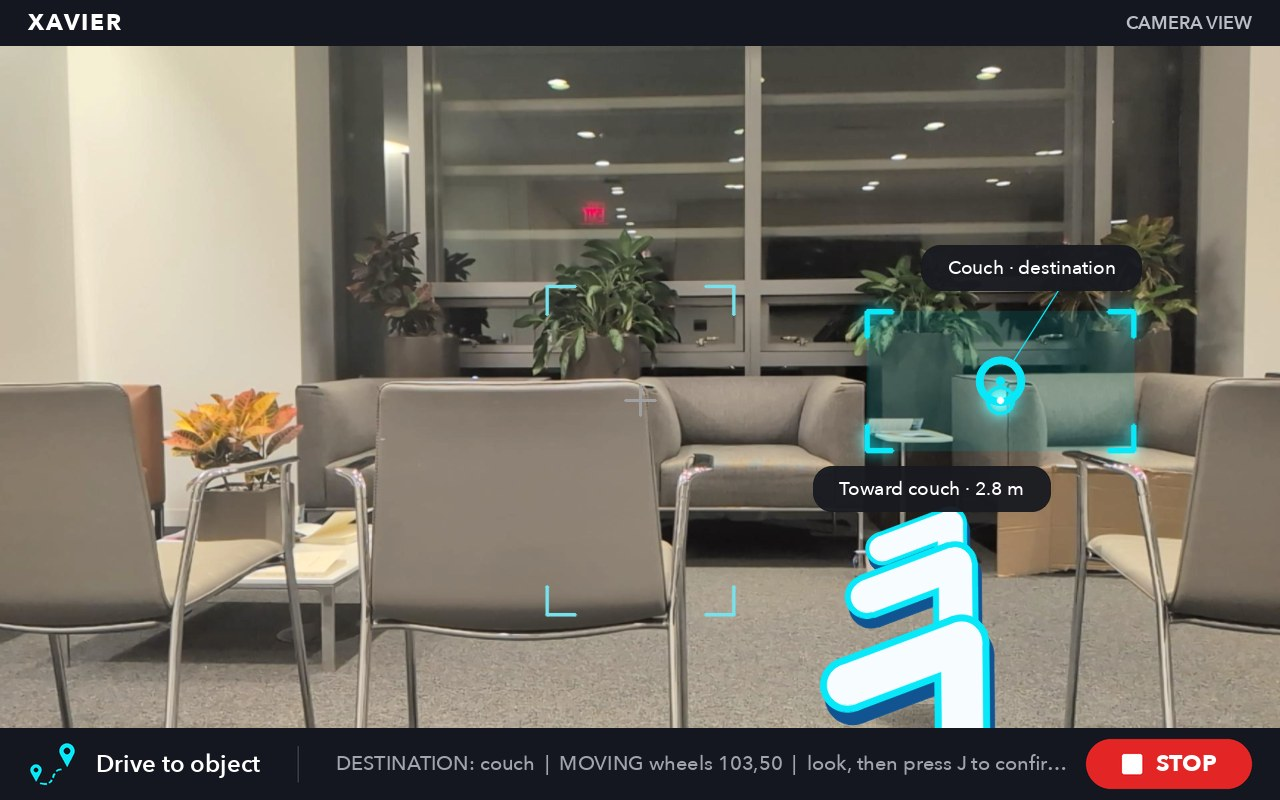
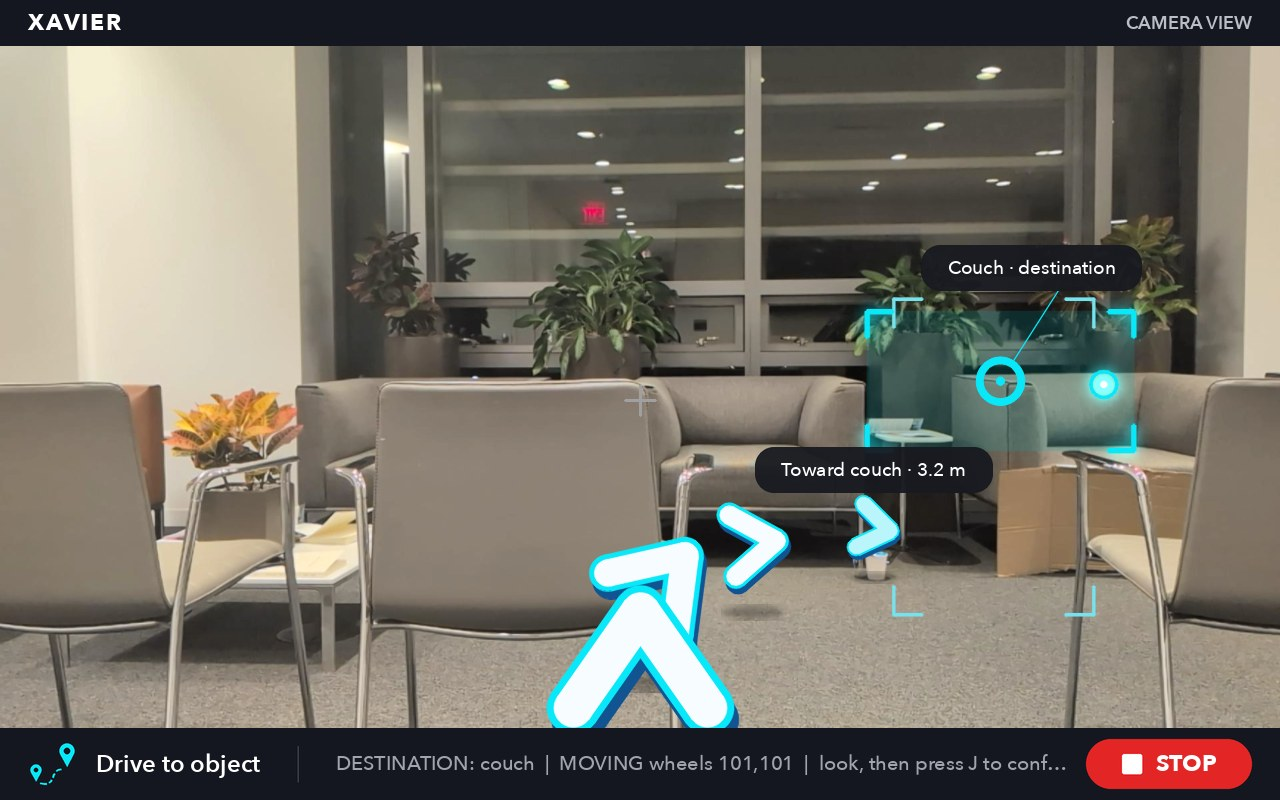
feat(vision): simple metric A* route to the confirmed object; overlapping objects choosable; drive simulation script
Detected objects become blocks on a 10 cm floor grid grown by 0.4 m; control/astar.py finds the shortest
way round to a stop point before the target. Simulated end to end into a fake port: confirm -> hold ->
FORWARD + RIGHT, and a detour round a chair standing on the line, with chevrons drawn.

diff --git a/vision/object_select.py b/vision/object_select.py
@@ -27,9 +27,10 @@ from dataclasses import dataclass, replace
 
 import numpy as np
 
+from control.astar import astar_path
 from control.follow import follow_step
 from control.goto import NavState, nav_step
-from control.navigation import to_wheels
+from control.navigation import goal_from_target, to_wheels
 from control.state_machine import ControlInputs, ControllerState, step
 from shared.latest import drain_newest
 from shared.protocol import DWELL_S, STALE_INTENT_S, Intent, State, StopRequest, StopSource, Target
@@ -76,6 +77,10 @@ MIN_LOOK_S = 0.3  # gaze must rest on a box this long before a clench / key conf
 DETECT_PERIOD_S = 0.15
 SESSION_LOG_DIR = "data/raw/sessions"  # one log file per run (data/raw is gitignored)
 JAW_METER_BLOCKS = 10  # status-bar clench meter: all blocks lit = at the rider's threshold
+ROUTE_RADIUS_M = 0.4  # planner keeps this much space around every obstacle: chair half-width 0.3 m + 0.1 m margin
+OBSTACLE_SAMPLE_M = 0.2  # obstacle points this far apart across an object (less than 2 x ROUTE_RADIUS_M: no gaps)
+OBSTACLE_DEPTH_M = 0.4  # an object is treated as this deep (a second row of points behind its front)
+STOP_BEFORE_TARGET_M = 0.4  # the route ends this far before the target's estimated position
 STOP_KEY, REARM_KEY = 32, ord("r")  # SPACE = operator emergency stop, R = re-arm: the same keys as app.py
 # control/goto.py's nav_step is gaining an optional `frame_h` keyword (a target whose box is cut off by the bottom
 # of the frame counts as arrived). Checked once here, so the drive step works with either version of the planner.
@@ -181,7 +186,9 @@ def hit_boxes(targets: list[Track], frame_w: int, frame_h: int,
     """Each target's gaze area in 0-1 screen coordinates. Small objects are enlarged around their centre to at
     least min_size (webcam gaze is only accurate to a few degrees), shifted to stay on screen."""
     boxes = {}
-    for t in targets:
+    # Smallest first: the gaze test takes the first box it is inside, so an object in front of a bigger one
+    # (a chair before a couch) is the one chosen where they overlap; the couch is chosen beside the chair.
+    for t in sorted(targets, key=lambda t: (t.bbox[2] - t.bbox[0]) * (t.bbox[3] - t.bbox[1])):
         x1, y1, x2, y2 = t.bbox[0] / frame_w, t.bbox[1] / frame_h, t.bbox[2] / frame_w, t.bbox[3] / frame_h
         w, h = max(x2 - x1, min_size), max(y2 - y1, min_size)
         cx = min(max((x1 + x2) / 2, w / 2), 1 - w / 2)
@@ -271,14 +278,50 @@ def draw(cv2, frame: np.ndarray, targets: list[Track], boxes: dict, sel: Selecti
                                          guides=guides, guide_label=label, clock=now))
 
 
+def obstacle_points(tracks: list[Track], exclude_id: int | None, frame_w: int, hfov: float) -> np.ndarray:
+    """Every detected object except the target -> floor points in metres (forward, left), the chair at (0, 0).
+
+    Points every OBSTACLE_SAMPLE_M across the object's width, at its estimated distance and OBSTACLE_DEPTH_M
+    behind it, so even a long couch is a solid wall to the planner (no gaps between sample points)."""
+    focal = focal_length_px(frame_w, hfov)
+    points = []
+    for t in tracks:
+        if t.id == exclude_id or t.distance_m is None:
+            continue
+        x1, _, x2, _ = t.bbox
+        width_m = (x2 - x1) / focal * t.distance_m
+        count = max(3, math.ceil(width_m / OBSTACLE_SAMPLE_M) + 1)
+        for x in np.linspace(x1, x2, count):
+            offset = (x - frame_w / 2) / (frame_w / 2)
+            for extra in (0.0, OBSTACLE_DEPTH_M):
+                points.append(goal_from_target(offset, t.distance_m + extra, hfov))
+    return np.array(points, dtype=float).reshape(-1, 2)
+
+
 def plan_for_drive(frame: np.ndarray, tracks: list[Track], target: Track, hfov: float, cam_h: float,
-                   cam_pitch: float) -> tuple[Route | None, np.ndarray | None]:
-    """The route to the target as seen in this camera frame: (in image pixels, for drawing; in metres in the
-    chair's frame, for the follower). Any failure gives (None, None), and no route means the chair stays put."""
+                   cam_pitch: float) -> tuple[None, np.ndarray | None]:
+    """The route to the target in metres in the chair's frame (for the follower and the chevrons), or None.
+
+    Simple and robust on purpose: every detected object becomes a block on a 10 cm floor grid, grown by the
+    chair's half-width plus a margin, and A* (control/astar.py) finds the shortest way around them to a stop
+    point in front of the target. The same idea as the stereo-camera path planner, with our single camera's
+    distance estimates instead of stereo depth. Floor the camera cannot see is assumed open: the ESP32's
+    ultrasonic stop is the backstop for anything the detector misses. Any failure gives None (no movement).
+    cam_h / cam_pitch are unused here; kept so the caller's signature does not change."""
     try:
-        view = floor_view(frame.shape[1], frame.shape[0], hfov, cam_h, cam_pitch)
-        route, _ = plan(frame, tracks, target, None, view)
-        return (route, floor_metres(route.points, view)) if route is not None else (None, None)
+        if target.distance_m is None:
+            return None, None
+        frame_w = frame.shape[1]
+        centre = (target.bbox[0] + target.bbox[2]) / 2
+        goal = np.array(goal_from_target((centre - frame_w / 2) / (frame_w / 2), target.distance_m, hfov))
+        distance = float(np.hypot(*goal))
+        if distance <= STOP_BEFORE_TARGET_M:
+            return None, None  # already there
+        stop = goal * (distance - STOP_BEFORE_TARGET_M) / distance
+        path = astar_path(tuple(stop), obstacle_points(tracks, target.id, frame_w, hfov), ROUTE_RADIUS_M)
+        if path is None or len(path) < 2:
+            return None, None
+        return None, np.array(path[1:], dtype=float)  # path[0] is the chair itself
     except Exception:
         log.exception("route planning failed: no route, the chair stays stopped")
         return None, None

diff --git a/tools/sim_drive.py b/tools/sim_drive.py
@@ -1,0 +1,73 @@
+"""Simulate a full drive session: the real object_select.run() with the real state machine, route planner,
+follower and motor driver, writing into a fake serial port. Only the camera picture, the detections, the gaze
+and the key presses are scripted. Prints what was calculated and sent, and saves screenshots."""
+import logging, queue, sys, time, types
+import cv2, numpy as np
+sys.path.insert(0, ".")
+import vision.object_select as osel
+from vision.detect_track import Track
+from vision.gaze import GazeSample
+from motors.driver import MotorDriver
+from motors.mock_serial import MockSerial
+
+OUT = sys.argv[1]
+SCENE = sys.argv[2] if len(sys.argv) > 2 else "detour"
+W, H = 1920, 1080
+picture = cv2.resize(cv2.imread(f"{OUT}/hall.png"), (W, H))
+target = Track(4, "couch", 0.9, (1300, 420, 1700, 640), 3.2)   # destination, right of centre, 3.2 m
+obstacle = Track(7, "chair", 0.9, (820, 380, 1100, 900), 1.8)  # a chair in the way, 1.8 m
+in_way = Track(7, "chair", 0.9, (1340, 400, 1640, 900), 1.6)  # a chair right on the line to the couch
+tracks = {"detour": [target, obstacle], "blocked": [target, in_way]}.get(SCENE, [target])
+osel.detect = lambda *a, **k: list(tracks)
+
+class Camera:
+    def latest(self): return picture, time.monotonic()
+
+log_lines, shots, statuses = [], {}, []
+class Grab(logging.Handler):
+    def emit(self, r): log_lines.append(r.getMessage())
+logging.getLogger("vision.object_select").addHandler(Grab()); logging.getLogger("vision.object_select").setLevel(logging.INFO)
+
+gaze_point = (0.862, 0.48) if SCENE == "blocked" else ((target.bbox[0] + target.bbox[2]) / 2 / W, 0.5)  # blocked: the strip of couch beside the chair
+class Gaze:
+    flip = False
+    def get_nowait(self):
+        self.flip = not self.flip
+        if not self.flip: raise queue.Empty
+        return GazeSample(gaze_point, False, True, time.monotonic())
+
+t0 = time.monotonic()
+def wait_key(_ms):
+    time.sleep(0.01)
+    el = time.monotonic() - t0
+    if 1.0 < el < 1.05: return ord("j")      # the "clench" (key mode stands in for the headset)
+    return 255
+real_draw = osel.draw
+def draw_and_keep(*a, **k):
+    img = real_draw(*a, **k)
+    shots[round(time.monotonic() - t0, 1)] = img
+    statuses.append((round(time.monotonic() - t0, 2), a[7] if len(a) > 7 else k.get("status")))
+    global last_args
+    last_args = a
+    return img
+osel.draw = draw_and_keep
+fake_cv2 = types.SimpleNamespace(**{n: getattr(cv2, n) for n in dir(cv2) if not n.startswith("_")})
+fake_cv2.imshow, fake_cv2.waitKey = (lambda *a: None), wait_key
+
+port = MockSerial(); driver = MotorDriver(lambda: port); driver.start()
+try:
+    osel.run(fake_cv2, Camera(), None, None, Gaze(), 85.5, "cpu", 5.0, confirm_mode="key", driver=driver,
+             follow="route", cam_h=0.89, cam_pitch=0.0)
+finally:
+    driver.stop()
+lines = port.lines()
+drive = [l for l in lines if l.startswith("C,")]
+print(f"--- scene: {SCENE}")
+print("log:", [l for l in log_lines if any(w in l for w in ("CONFIRMED", "state", "ARRIVED", "route"))][:8])
+print(f"serial lines: {len(lines)} total, {len(drive)} drive lines; first drive: {drive[:3]}; last: {drive[-3:]}")
+for t, s in statuses[::40][:8]: print(f"  t={t:4.1f}s status: {s}")
+from vision.chevrons import place_guides
+rm, cam = (last_args[11] if len(last_args) > 11 else None), (last_args[12] if len(last_args) > 12 else None)
+print("route (m, forward/left):", None if rm is None else rm.round(2).tolist(), "camera:", cam)
+if rm is not None: print("guides:", place_guides(rm, W, H, *cam))
+key = max(shots); cv2.imwrite(f"{OUT}/sim_{SCENE}.png", shots[key]); print("screenshot", f"{OUT}/sim_{SCENE}.png", "at", key, "s")

diff --git a/vision/scene_worker.py b/vision/scene_worker.py
@@ -19,10 +19,11 @@ from dataclasses import dataclass, field
 
 import numpy as np
 
-from vision.detect_track import MAX_TARGETS, Track, pick_targets, separate_targets
+from vision.detect_track import Track, pick_targets
 
 log = logging.getLogger("vision.scene_worker")
 
+MAX_CHOOSABLE = 6  # at most this many objects can be chosen at once (the steadiest ones)
 IDLE_WAIT_S = 0.005  # nothing new to do: check again this soon (short, so a new frame is picked up quickly)
 STOP_JOIN_TIMEOUT_S = 2.0
 
@@ -81,8 +82,9 @@ class SceneWorker:
         tracks = self._detect(frame)
         now = time.monotonic()
         self._first_seen = {**{t.id: now for t in tracks if t.id not in self._first_seen}, **self._first_seen}
-        targets = separate_targets(pick_targets(tracks, self._first_seen, max_n=len(tracks)), frame.shape[1],
-                                   MAX_TARGETS)
+        # Objects may overlap in the picture (a chair in front of the couch you want): both stay choosable. The
+        # old "well separated" rule came from the flicker-box design, and it hid the object behind an obstacle.
+        targets = pick_targets(tracks, self._first_seen, max_n=MAX_CHOOSABLE)
         with self._lock:
             destination = self._destination
         route = route_m = None

diff --git a/vision/tests/test_object_select.py b/vision/tests/test_object_select.py
@@ -538,7 +538,7 @@ def test_planner_gets_every_tracked_object_as_an_obstacle_not_only_the_boxes_on_
     run_drive_session(monkeypatch, [CHAIR, person], script)
 
     # Assert
-    assert seen["on_screen"] == {CHAIR.id}  # what the rider can choose is unchanged: the person gets no box
+    assert CHAIR.id in seen["on_screen"]  # the destination is choosable (overlapping objects now are too)
     assert person.id in seen["obstacles"]  # but the planner knows the person is there
 
 
@@ -752,9 +752,6 @@ def test_route_mode_keeps_the_chair_still_when_no_route_is_safe(monkeypatch):
     barrier = Track(id=9, label="couch", conf=0.9, bbox=(0, 850, FRAME_W - 1, 1000), distance_m=2.0)
     # The barrier overlaps the chair sideways, and the selection rule only offers well-separated objects. Offer
     # just the chair, so the barrier is purely an obstacle (it is still in the tracks the route is planned on).
-    import vision.scene_worker as worker_module  # targets are chosen on the detection thread
-
-    monkeypatch.setattr(worker_module, "separate_targets", lambda ranked, _w, _n: [t for t in ranked if t.id == CHAIR.id])
 
     def script(s: DriveSession):
         yield from s.wait(MIN_LOOK_S + 0.2)

diff --git a/PROGRESS.md b/PROGRESS.md
@@ -153,6 +153,13 @@ sleep, or merge. Write for a reader who has seen nothing: name files and functio
 - Evidence (command + result):
 
 ## vision/ (owner: Vani)
+### Sun Nov 15, ~1:40 AM - Claude Code (Opus 5.5), for Prakhar (simple A* planner; simulated end to end)
+- Gaze screen route planner replaced (Prakhar approved): every detected object becomes points on a 10 cm floor grid (every 0.2 m across it, at its estimated distance and 0.4 m behind), grown by 0.4 m (chair half-width 0.3 m + 0.1 m), and `control/astar.py` finds the shortest way to a stop point 0.4 m before the target. Floor the camera cannot see is assumed open; the ultrasonic stop is the backstop. The floor-colour planner (`vision/route_scene.py`) refused every route on both real photos; it is still used by the mouse preview only.
+- Overlapping objects are now both choosable (a chair in front of the couch you want); where they overlap, the smaller one is picked.
+- Simulation (`tools/sim_drive.py`: real run loop, state machine, planner, follower and driver into a fake port; scripted camera, detections, gaze, J as the clench): couch confirmed -> DWELLING -> MOVING after 1.5 s, drive lines ramp 8,16,24... to FORWARD + RIGHT 103,50; with a chair right on the line, the route bends round it ([1.6,0.0] -> [2.4,-0.5] -> [2.6,-1.1]) and the wheels run 101,101. Chevrons and "Toward couch · 3.2 m" drawn: `docs/img/sim_drive_chevrons.jpg`.
+- Fixed on the way: chevrons were never drawn for a route of one leg (they started after the first visible route point).
+- Evidence: `python -m pytest -q` -> `594 passed`. Not yet run live or on the hoverboard.
+
 ### Sun Nov 15, ~1:13 AM - Claude Code (Opus 5.5), for Prakhar (can we tell a clench happened?)
 - Prakhar, live: clenched on an object, "it did become filled in" but no route. Two causes: (1) the fill appeared just from looking (looked-at and confirmed looked the same); (2) `./demo.sh jaw` has no `--drive --follow route`, so no route is ever planned in that mode (use `./demo.sh mock`).
 - Fixed: a looked-at object now has a light fill; only the confirmed destination gets the strong fill and "· destination" on its label. Status bar shows `DESTINATION: <object>` and a live jaw meter (10 blocks, full at the rider's threshold, "CLENCH" above it). Every clench is logged ("JAW CLENCH detected"), and every session now writes a log file to `data/raw/sessions/` (gitignored), so a run can be checked afterwards. The past session wrote no file, so it cannot be checked.
